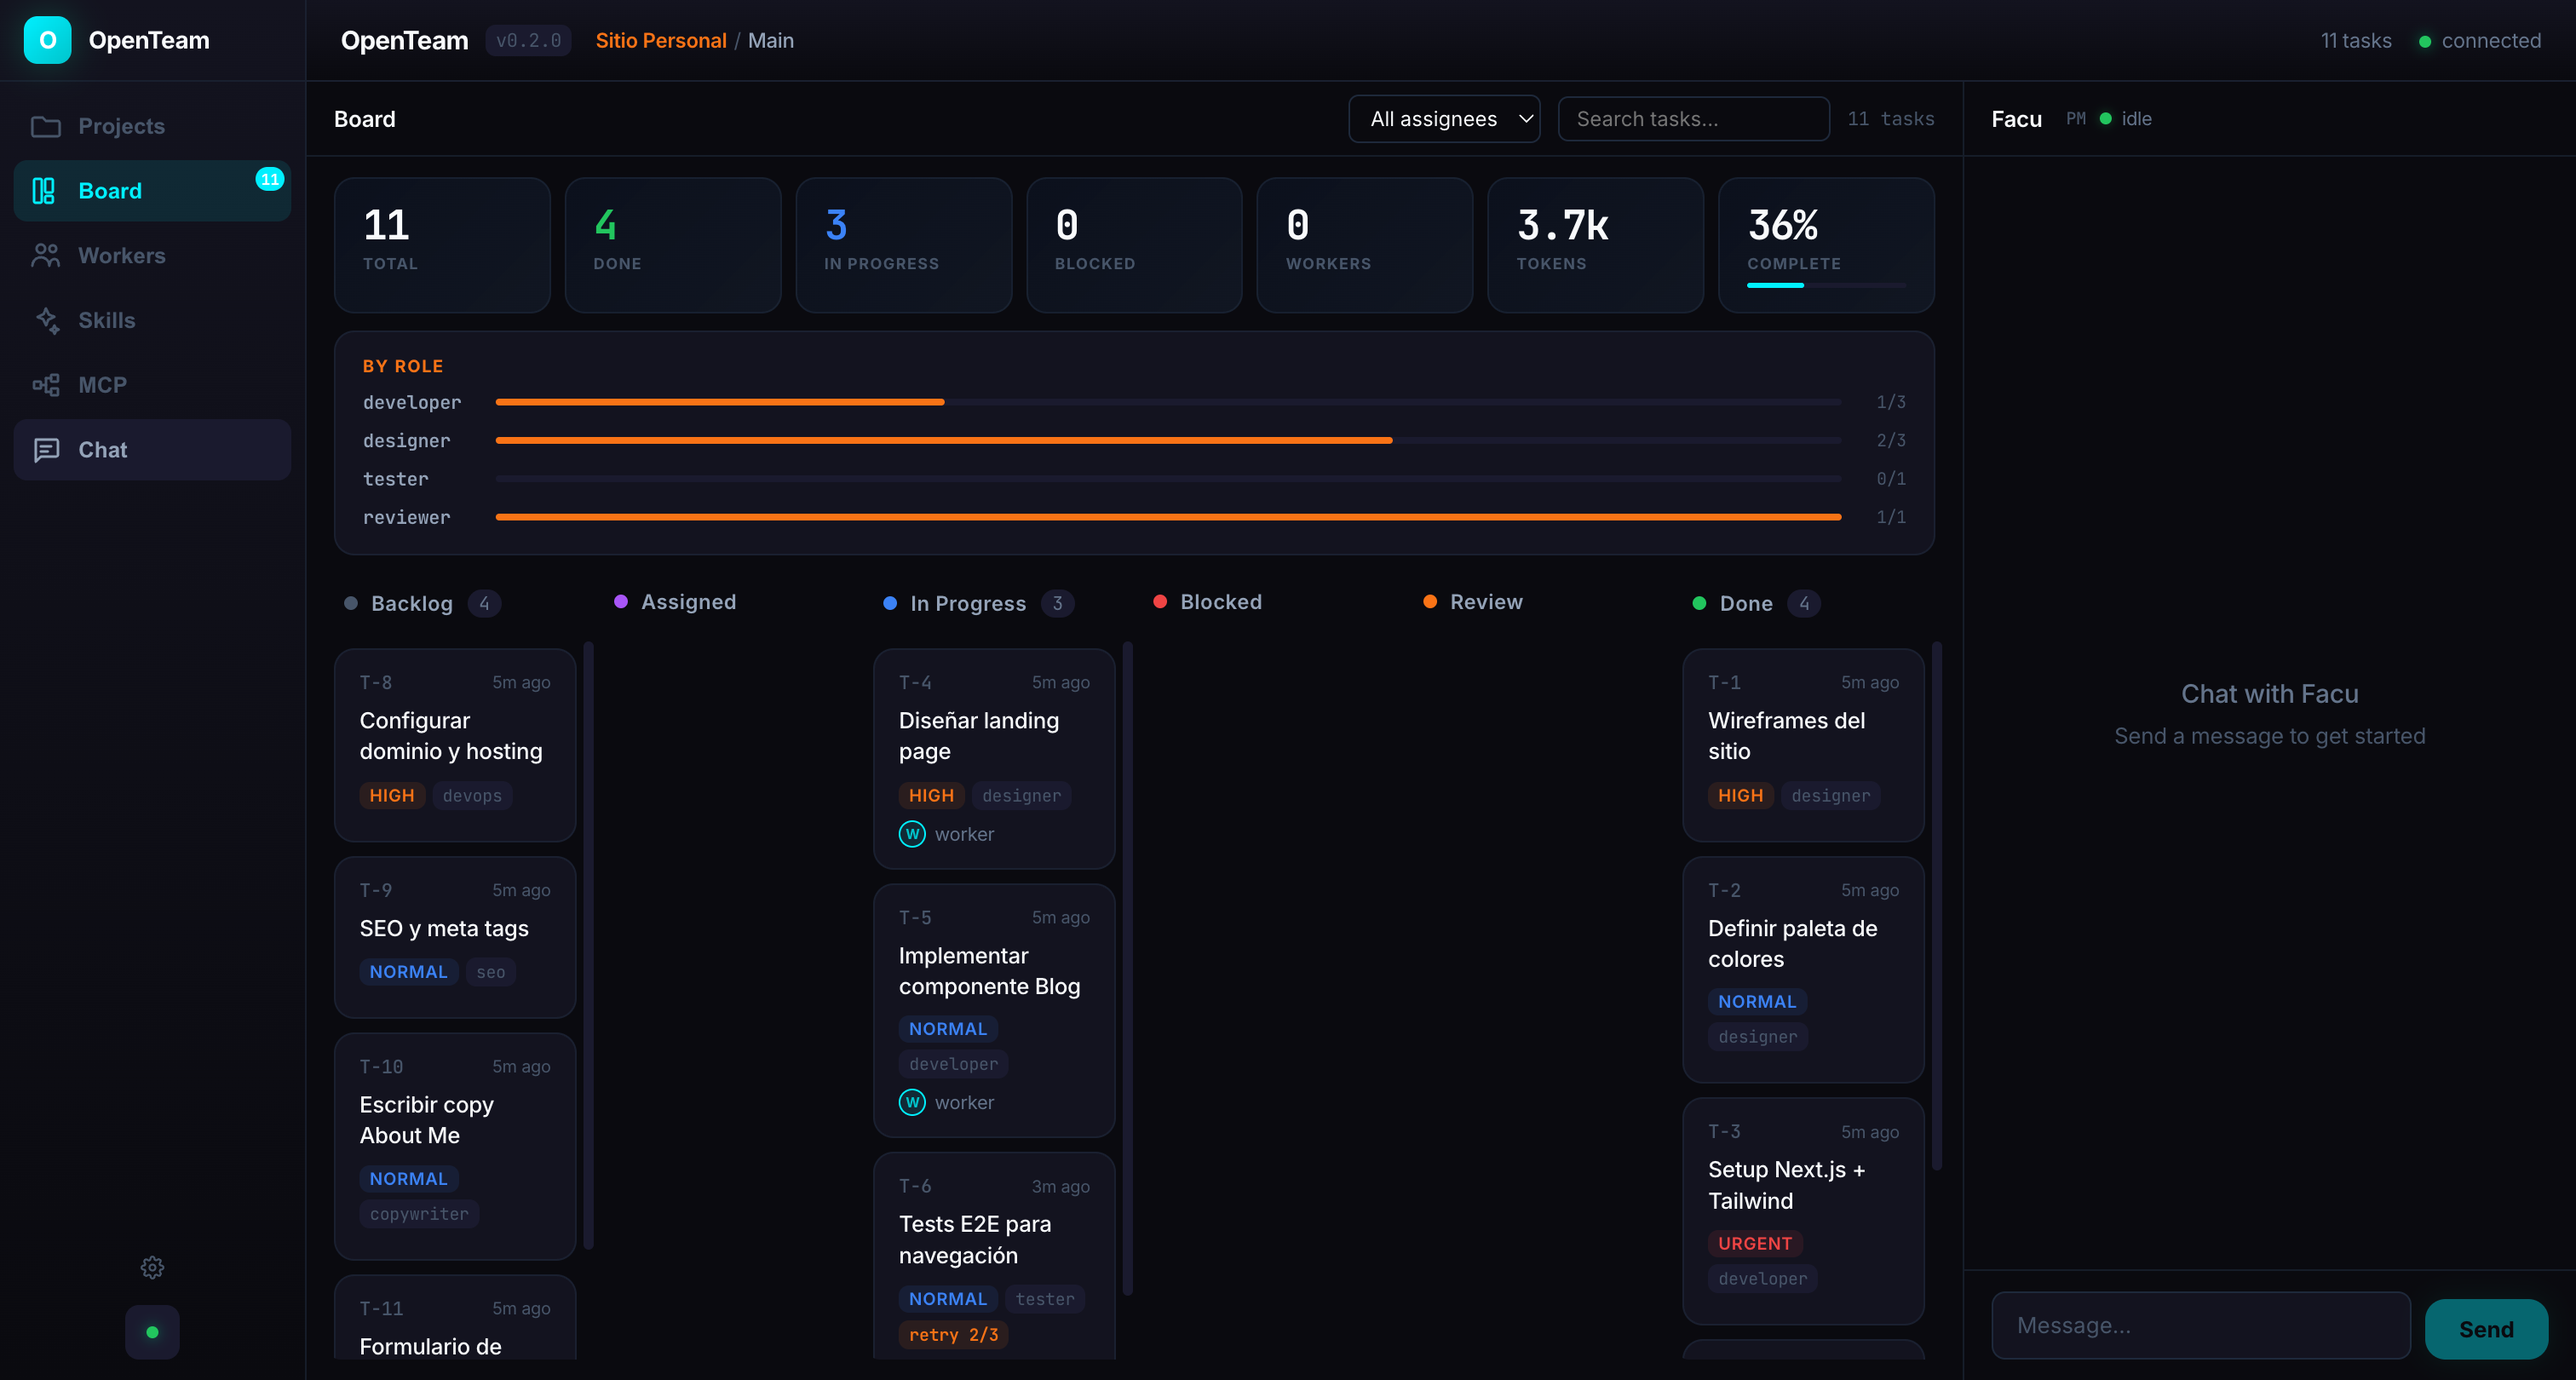
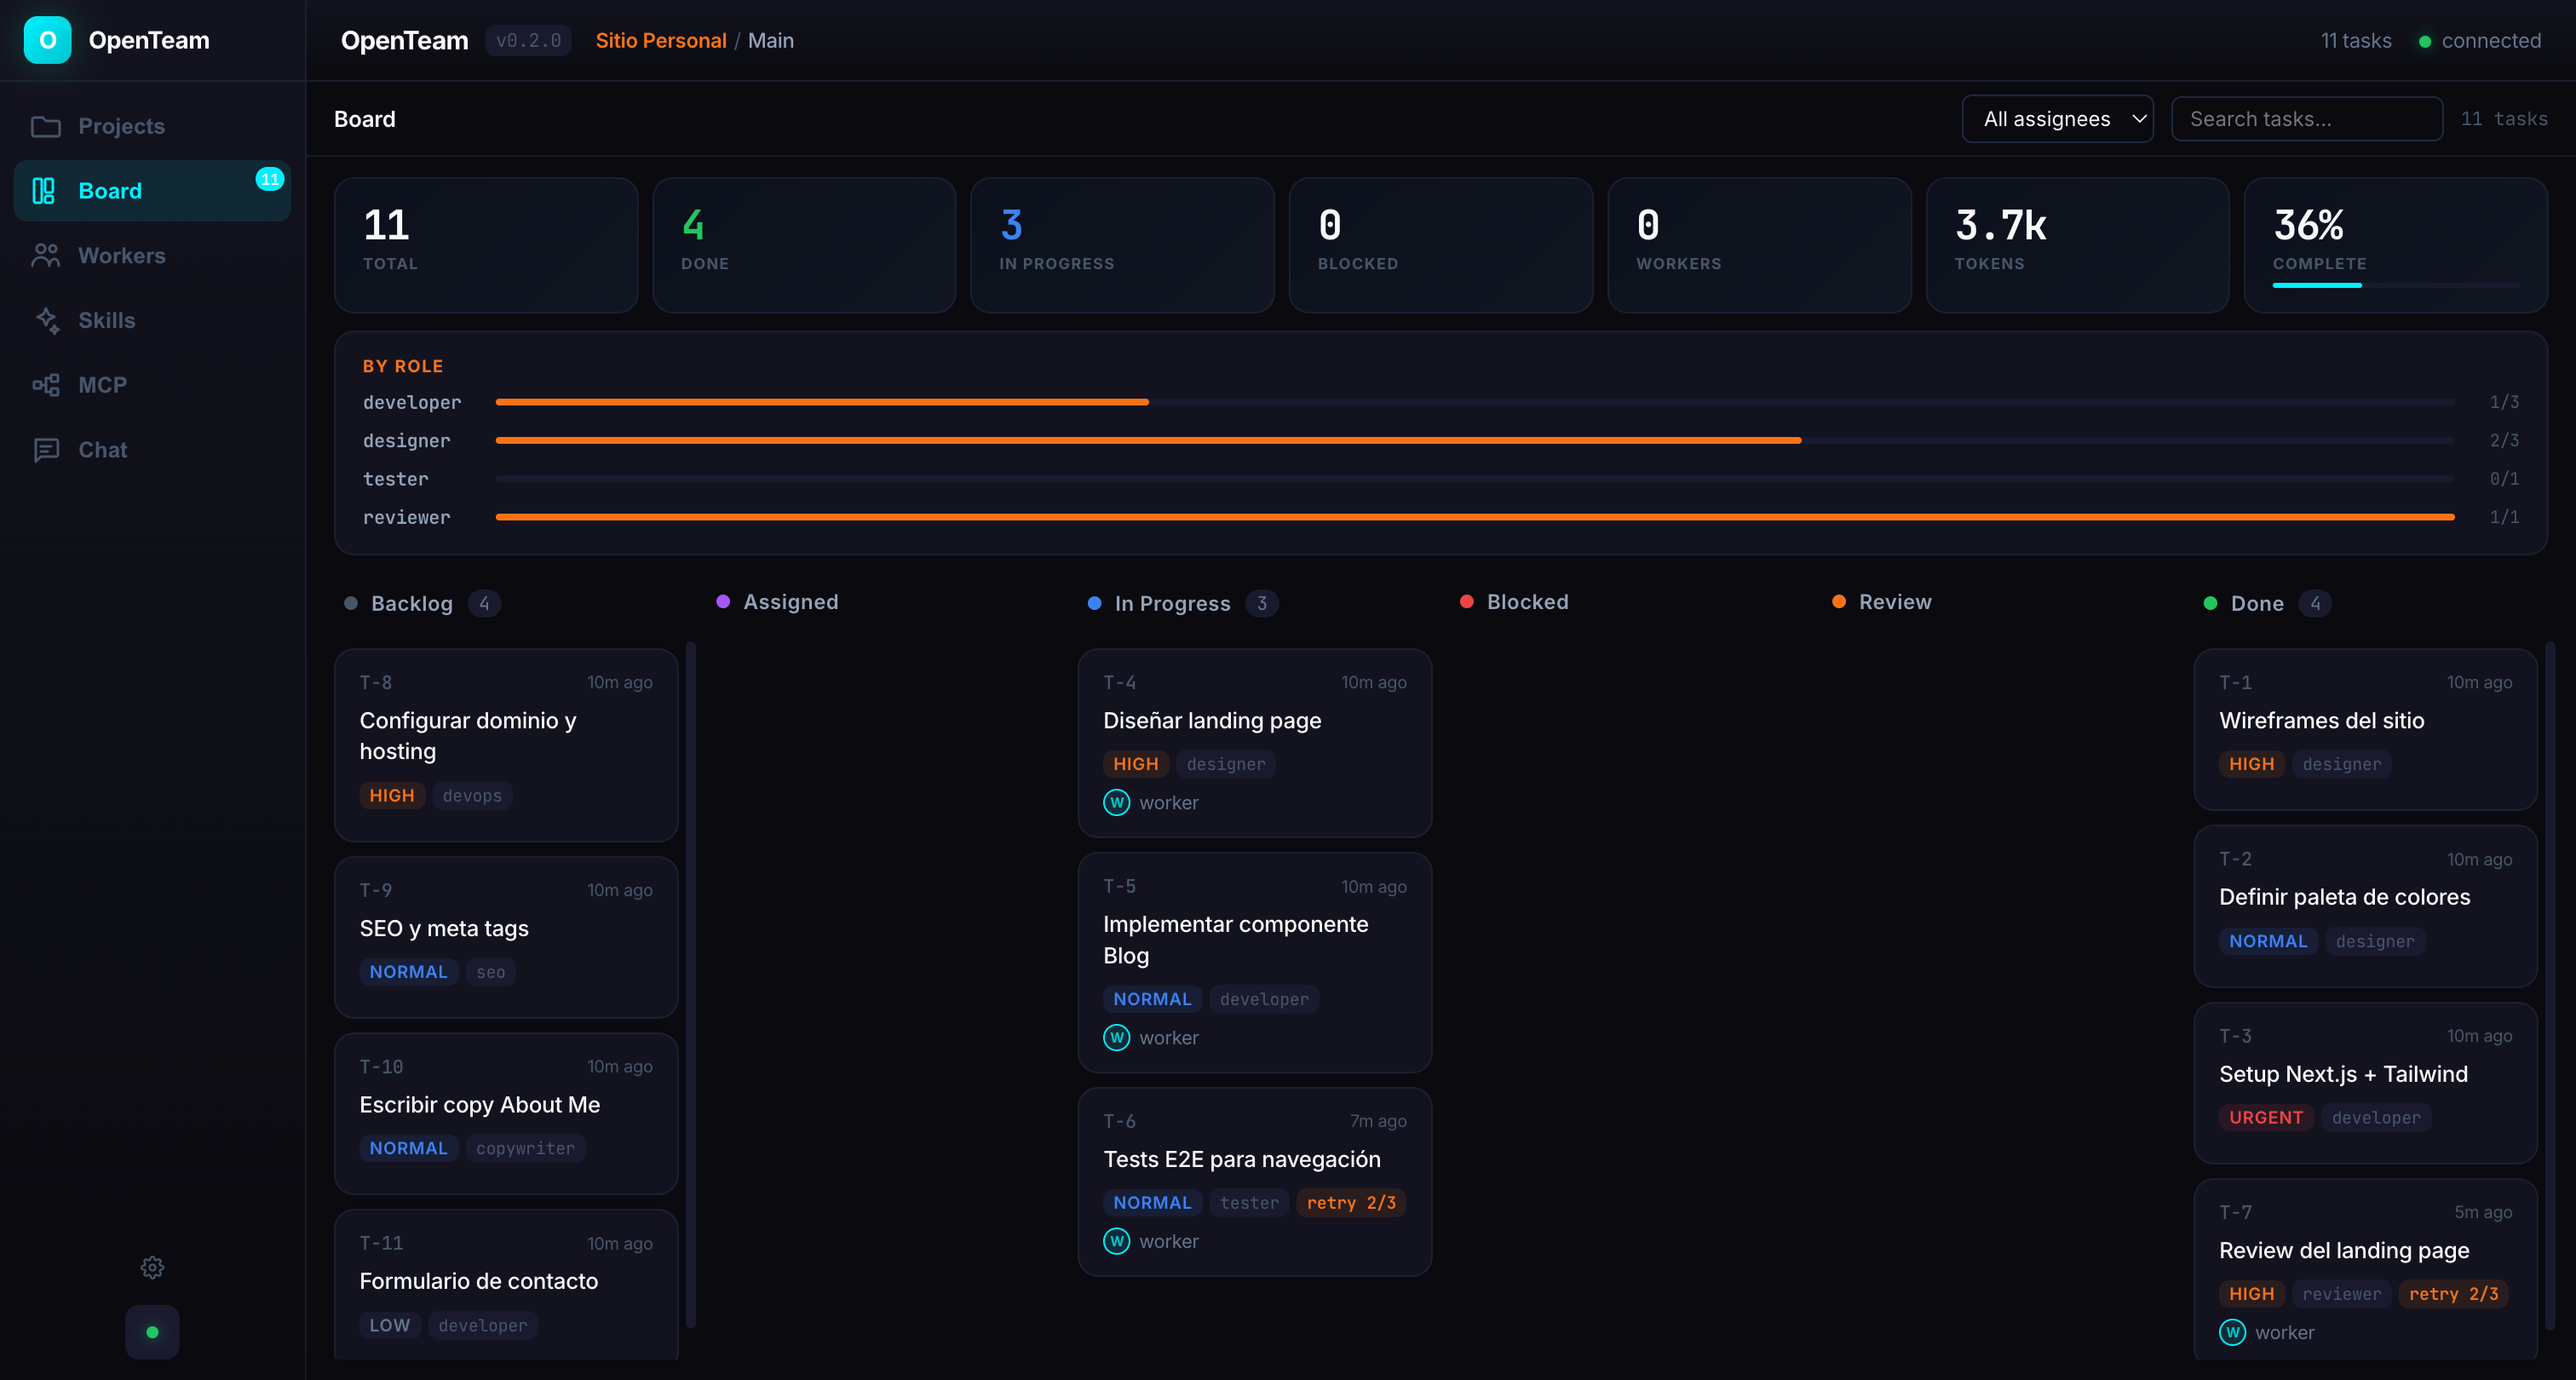
fix: hide chat sidebar on board view + update screenshots
Board view now uses full width without chat sidebar. Screenshots
updated with Sitio Personal project, 11 tasks, token tracking visible.

diff --git a/packages/ui/src/App.tsx b/packages/ui/src/App.tsx
@@ -249,8 +249,8 @@ export function App() {
             </div>
           )}
 
-          {/* Persistent chat sidebar — visible on all views except chat full */}
-          {activeView !== "chat" && (
+          {/* Persistent chat sidebar — visible on all views except chat and board */}
+          {activeView !== "chat" && activeView !== "board" && (
             <div className="chat-sidebar">
               <ChatPanel
                 messages={messages}
